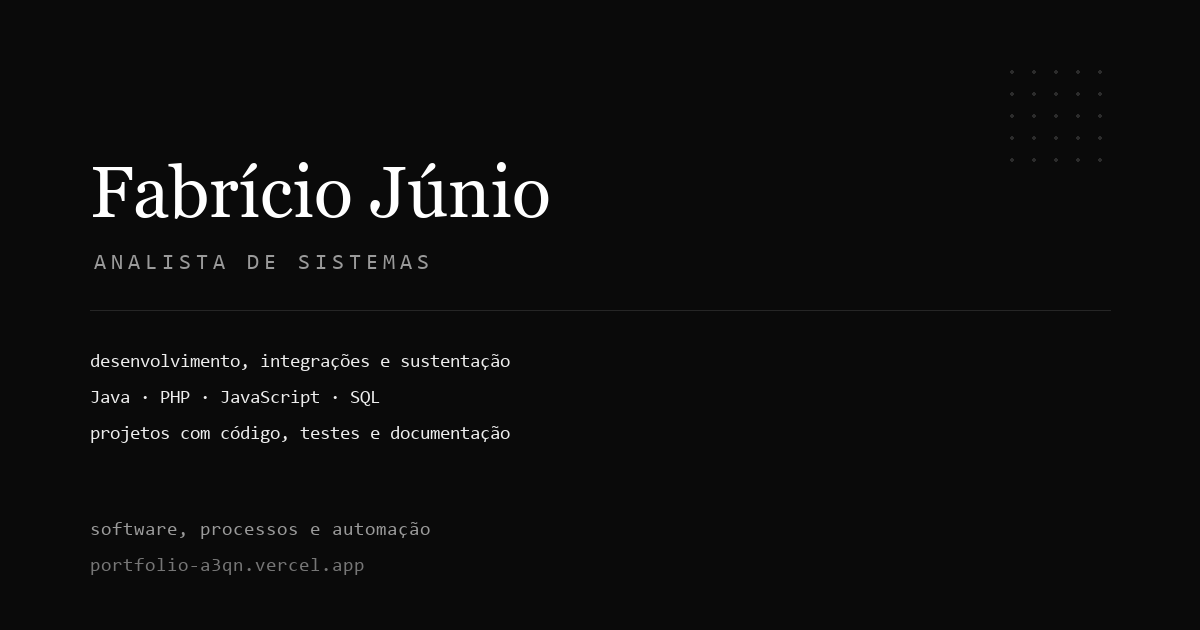
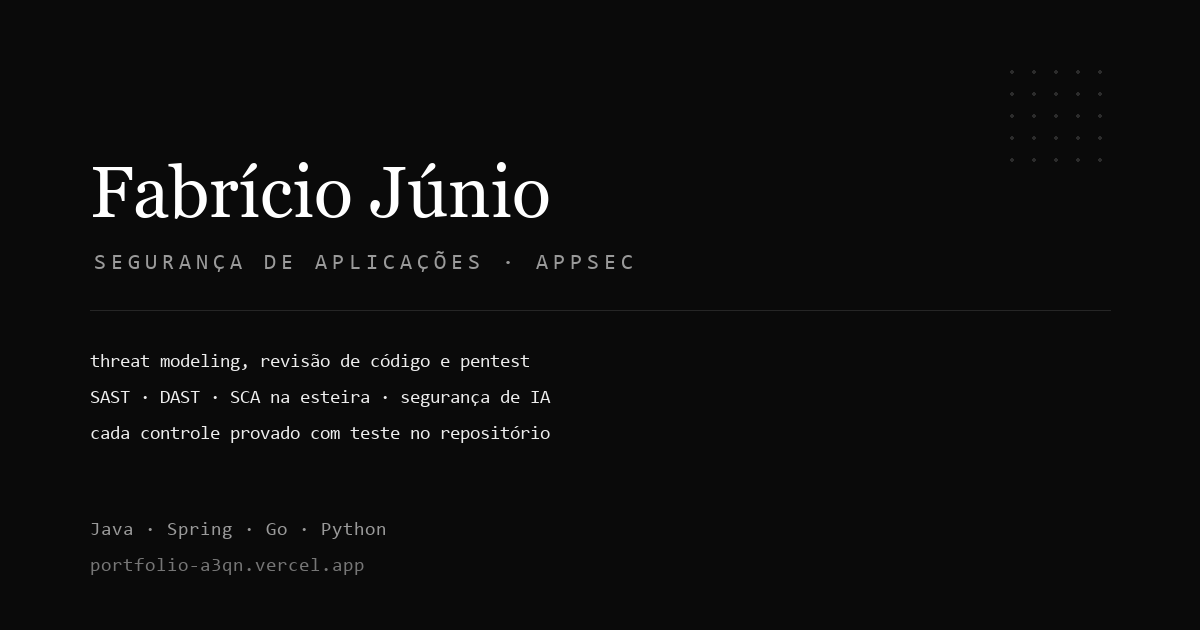
docs: atualiza README, metatags e cartão de compartilhamento para AppSec

diff --git a/e2e/portfolio.spec.ts b/e2e/portfolio.spec.ts
@@ -1,40 +1,47 @@
 import { expect, test } from "@playwright/test";
 
-test("destaques, roteiro e expansão dos acadêmicos", async ({ page }) => {
+test("segurança primeiro, destaques e expansão dos acadêmicos", async ({ page }) => {
   const errors: string[] = [];
   page.on("pageerror", e => errors.push(e.message));
   await page.goto("/");
-  await expect(page).toHaveTitle(/Analista de Sistemas/);
-  await expect(page.getByText("Analista de Sistemas", { exact: true }).first()).toBeVisible();
-  await expect(page.getByText("Disponível", { exact: true })).toBeVisible();
+  await expect(page).toHaveTitle(/Segurança de Aplicações/);
+  await expect(page.getByText("Segurança de Aplicações · AppSec", { exact: true }).first()).toBeVisible();
+  await expect(page.getByText("Aberto a vagas de AppSec", { exact: true })).toBeVisible();
   await page.screenshot({ path: test.info().outputPath("inicio.png"), animations: "disabled" });
   await expect(page.getByRole("link", { name: /LinkedIn in\/fabríciojúnio/ })).toHaveAttribute("href", "https://www.linkedin.com/in/fabr%C3%ADcioj%C3%BAnio/");
+  const seguranca = page.getByRole("heading", { level: 3, name: "Segurança de aplicações", exact: true });
+  const destaques = page.getByRole("heading", { level: 3, name: "Destaques", exact: true });
+  expect((await seguranca.boundingBox())!.y).toBeLessThan((await destaques.boundingBox())!.y);
+  const brecha = page.locator("#work-brecha");
+  await brecha.getByRole("button").first().click();
+  await expect(brecha.getByText("segurança aplicada")).toBeVisible();
+  await expect(brecha.getByRole("link", { name: /código no GitHub/ })).toHaveAttribute("href", "https://github.com/fabriciojunio/brecha");
   const vitrine = page.locator("#work-vitrine-bauru");
-  await vitrine.getByRole("button").click();
+  await vitrine.getByRole("button").first().click();
   await expect(vitrine.getByText(/Secretaria Municipal de Desenvolvimento Econômico, Turismo e Inovação/)).toBeVisible();
-  await expect(page.locator("#work-conectagente").getByRole("button")).toContainText("selecionado para a Saruê");
-  const first = page.locator("#work-almanaque");
-  await first.getByRole("button").click();
-  await expect(first.getByText(/A busca publicada usa o banco/)).toBeVisible();
-  await expect(first.getByRole("link", { name: /explorar código na IDE/ })).toHaveAttribute("href", "/lab?arquivo=%2Fprojetos%2Falmanaque.php");
-  await expect(page.locator("#work-cardiocam")).toBeVisible();
-  await page.locator("#work-cardiocam").getByRole("button").click();
-  await expect(page.locator("#work-cardiocam").getByText(/sinais sintéticos/)).toBeVisible();
-  await expect(page.locator("#work-cardiocam").getByRole("link", { name: /Abrir simulação/ })).toHaveAttribute("href", "/lab?arquivo=%2Fprojetos%2Fcardiocam.py&run=1");
-  const lastro = page.locator("#work-lastro");
-  await lastro.getByRole("button").click();
-  await expect(lastro.getByText(/permanecem privados até a defesa/)).toBeVisible();
-  await expect(lastro.getByRole("link", { name: /ler apresentação na IDE/ })).toHaveAttribute("href", "/lab?arquivo=%2Fprojetos%2Flastro.md");
-  await expect(lastro.getByRole("link", { name: /código no GitHub/ })).toHaveCount(0);
+  await expect(page.locator("#work-conectagente").getByRole("button").first()).toContainText("selecionado para a Saruê");
   await expect(page.locator("#work-permaneia")).toBeHidden();
   await page.getByRole("button", { name: /Outros projetos e trabalhos acadêmicos/ }).click();
   await expect(page.locator("#work-permaneia")).toBeVisible();
+  const almanaque = page.locator("#work-almanaque");
+  await almanaque.getByRole("button").first().click();
+  await expect(almanaque.getByRole("link", { name: /explorar código na IDE/ })).toHaveAttribute("href", "/lab?arquivo=%2Fprojetos%2Falmanaque.php");
+  const lastro = page.locator("#work-lastro");
+  await lastro.getByRole("button").first().click();
+  await expect(lastro.getByText(/permanecem privados até a defesa/)).toBeVisible();
+  await expect(lastro.getByRole("link", { name: /código no GitHub/ })).toHaveCount(0);
   await page.getByRole("button", { name: /Outros projetos e trabalhos acadêmicos/ }).click();
   await expect(page.locator("#work-permaneia")).toBeHidden();
   expect(await page.evaluate(() => document.documentElement.scrollWidth <= window.innerWidth)).toBe(true);
   expect(errors).toEqual([]);
   await page.locator("#trabalho").scrollIntoViewIfNeeded();
   await page.screenshot({ path: test.info().outputPath("projetos.png"), animations: "disabled" });
+});
+
+test("o crivo abre em Go na IDE com o trecho real", async ({ page }) => {
+  await page.goto("/lab?arquivo=%2Fprojetos%2Fcrivo.go");
+  await expect(page.getByRole("status", { name: "Inicializando IDE" })).toBeHidden();
+  await expect(page.getByText("crivo.go").first()).toBeVisible();
 });
 
 test("a IDE abre o projeto solicitado sem painel de execução indevido", async ({ page, isMobile }) => {
@@ -88,16 +95,16 @@ test("as rotas antigas não expõem estudos retirados", async ({ page }) => {
   await expect(page.getByText(/IFRS|LGD/)).toHaveCount(0);
 });
 
-test("a árvore da IDE prioriza os destaques e permite expandir os demais", async ({ page, isMobile }) => {
-  await page.goto("/lab?arquivo=%2Fprojetos%2Falmanaque.php");
+test("a árvore da IDE mostra segurança e destaques e permite expandir os demais", async ({ page, isMobile }) => {
+  await page.goto("/lab?arquivo=%2Fprojetos%2Fbrecha.java");
   await expect(page.locator(".monaco-editor")).toBeVisible();
   await expect(page.getByText("clique, enter ou esc para pular")).toBeHidden();
   if (isMobile) await page.getByRole("button", { name: "Arquivos", exact: true }).click();
   const tree = page.getByRole("navigation", { name: "Estrutura de arquivos" });
-  await expect(tree.getByRole("button", { name: "cardiocam.py", exact: true })).toBeVisible();
-  await expect(tree.getByRole("button", { name: "lastro.md", exact: true })).toBeVisible();
+  await expect(tree.getByRole("button", { name: "brecha.java", exact: true })).toBeVisible();
+  await expect(tree.getByRole("button", { name: "crivo.go", exact: true })).toBeVisible();
   await expect(tree.getByRole("button", { name: "permaneia.ts", exact: true })).toBeHidden();
-  await tree.getByText("Outros projetos (9)", { exact: true }).click();
+  await tree.getByText("Outros projetos (13)", { exact: true }).click();
   await tree.getByRole("button", { name: "permaneia.ts", exact: true }).click();
   await expect(page.getByText("PermaneIA", { exact: true })).toBeVisible();
   if (isMobile) await expect(tree).toBeHidden();

diff --git a/index.html b/index.html
@@ -8,24 +8,24 @@
     <meta name="viewport" content="width=device-width, initial-scale=1.0, viewport-fit=cover" />
     <meta name="theme-color" content="#0a0a0a" />
 
-    <title>Fabrício Júnio · Analista de Sistemas</title>
+    <title>Fabrício Júnio · Segurança de Aplicações (AppSec)</title>
     <meta
       name="description"
-      content="Analista de Sistemas em Bauru. Desenvolvimento, integrações e sustentação com Java, JavaScript e SQL. Projetos próprios em PHP, Symfony e Laravel."
+      content="Segurança de aplicações com base de desenvolvedor, em Bauru. Threat modeling, revisão de código, SAST, DAST e SCA na esteira, pentest com relatório e segurança de IA. Java, Spring e Go."
     />
     <meta
       name="keywords"
-      content="Fabrício Júnio, Analista de Sistemas, Java, PHP, JavaScript, SQL, Symfony, Laravel, API REST, MCP, Lecom BPM, RPA, MySQL, Bauru"
+      content="Fabrício Júnio, AppSec, Application Security, Product Security, DevSecOps, threat modeling, pentest, OWASP, SAST, DAST, SCA, Semgrep, CodeQL, OWASP ZAP, Burp Suite, Keycloak, Java, Spring Boot, Go, LGPD, Bauru"
     />
     <meta name="author" content="Fabrício Júnio" />
 
     <meta property="og:type" content="website" />
     <meta property="og:locale" content="pt_BR" />
     <meta property="og:site_name" content="Fabrício Júnio" />
-    <meta property="og:title" content="Fabrício Júnio · Analista de Sistemas" />
+    <meta property="og:title" content="Fabrício Júnio · Segurança de Aplicações (AppSec)" />
     <meta
       property="og:description"
-      content="Desenvolvimento, integrações e sustentação. Projetos em Java, PHP e TypeScript, com código, testes e demonstrações."
+      content="Threat modeling, revisão de código, SAST, DAST e SCA na esteira, pentest com relatório e segurança de IA, com evidência em cada repositório."
     />
     <meta property="og:url" content="https://portfolio-a3qn.vercel.app" />
     <!-- Sem og:image, colar o endereço no LinkedIn ou no WhatsApp gera um
@@ -36,14 +36,14 @@
     <meta property="og:image:height" content="630" />
     <meta
       property="og:image:alt"
-      content="Fabrício Júnio, Analista de Sistemas: Java, PHP, JavaScript e SQL"
+      content="Fabrício Júnio, Segurança de Aplicações: AppSec, DevSecOps e pentest"
     />
 
     <meta name="twitter:card" content="summary_large_image" />
-    <meta name="twitter:title" content="Fabrício Júnio · Analista de Sistemas" />
+    <meta name="twitter:title" content="Fabrício Júnio · Segurança de Aplicações (AppSec)" />
     <meta
       name="twitter:description"
-      content="Desenvolvimento, integrações e sustentação. Projetos em Java, PHP e TypeScript, com código, testes e demonstrações."
+      content="Threat modeling, revisão de código, SAST, DAST e SCA na esteira, pentest com relatório e segurança de IA, com evidência em cada repositório."
     />
     <meta name="twitter:image" content="https://portfolio-a3qn.vercel.app/og.png" />
 
@@ -66,22 +66,21 @@
         "addressCountry": "BR"
       },
       "knowsAbout": [
-  "Desenvolvimento de software",
-  "Integração de sistemas",
-  "Sustentação de software",
-  "Java",
-  "PHP",
-  "JavaScript",
-  "SQL",
-  "Symfony",
-  "Laravel",
-  "Lecom BPM",
-  "RPA",
-  "API REST",
-  "MCP",
-  "MySQL",
-  "Testes automatizados"
-]
+        "Application Security",
+        "Threat modeling",
+        "Secure code review",
+        "Penetration testing",
+        "DevSecOps",
+        "OWASP ASVS",
+        "OWASP Top 10",
+        "SAST, DAST e SCA",
+        "OAuth 2.0 e OpenID Connect",
+        "Segurança de IA",
+        "LGPD",
+        "Java",
+        "Spring Boot",
+        "Go"
+      ]
     }
     </script>
   </head>

diff --git a/scripts/gerar-cartao-og.py b/scripts/gerar-cartao-og.py
@@ -65,16 +65,16 @@ def gerar(caminho: Path) -> None:
             d.ellipse([x, y, x + 3, y + 3], fill=(44, 44, 44))
 
     d.text((esq, 150), "Fabrício Júnio", font=serif, fill=BRANCO)
-    escrever_espacado(d, (esq + 4, 252), "ANALISTA DE SISTEMAS", mono, FRACO, 5)
+    escrever_espacado(d, (esq + 4, 252), "SEGURANÇA DE APLICAÇÕES · APPSEC", mono, FRACO, 5)
 
     d.line([(esq, 310), (LARGURA - 90, 310)], fill=LINHA, width=1)
 
     # Tres linhas e nao oito: o cartao aparece pequeno na linha do tempo, e
     # quem le passa menos de um segundo nele.
     linhas = [
-        "desenvolvimento, integrações e sustentação",
-        "Java · PHP · JavaScript · SQL",
-        "projetos com código, testes e documentação",
+        "threat modeling, revisão de código e pentest",
+        "SAST · DAST · SCA na esteira · segurança de IA",
+        "cada controle provado com teste no repositório",
     ]
     y = 352
     for texto in linhas:
@@ -82,7 +82,7 @@ def gerar(caminho: Path) -> None:
         y += 36
 
     escrever_espacado(
-        d, (esq, 520), "software, processos e automação", mono_peq, FRACO, 1
+        d, (esq, 520), "Java · Spring · Go · Python", mono_peq, FRACO, 1
     )
     escrever_espacado(
         d, (esq, 556), "portfolio-a3qn.vercel.app", mono_peq, APAGADO, 1

diff --git a/README.md b/README.md
@@ -2,15 +2,15 @@
 
 *[Read this in English](README.en.md)*
 
-**Analista de Sistemas: desenvolvimento, integrações e sustentação de software.**
+**Segurança de aplicações (AppSec) com base de desenvolvedor.**
 
 [Portfólio publicado](https://portfolio-a3qn.vercel.app) · [IDE no navegador](https://portfolio-a3qn.vercel.app/lab)
 
 ## Conteúdo
 
-Almanaque, Vitrine Bauru e Feira do Comando aparecem primeiro, seguidos de KoraCRM, AuthCore e CodeReview AI. Pesquisa aplicada reúne ConectAgente, Cardiocam e Lastro, projeto pré-TCC com apresentação pública e código privado até a defesa. Os demais trabalhos acadêmicos e projetos complementares ficam em uma seção expansível.
+Os projetos de segurança vêm primeiro: AuthCore, Feira do Comando, brecha, alicerce, crivo e guarita. Depois os destaques: Vitrine Bauru (extensão com a SEDECON), ConectAgente (iniciação científica, Saruê), rastro (TCC) e AURORA (NASA Space Apps 2026). A IA aplicada fica em seguida, e os demais trabalhos acadêmicos e projetos complementares ficam numa seção expansível.
 
-Cada card informa o problema, a participação no desenvolvimento, tecnologias, roteiro de visualização e escopo da demonstração. Os dados dos cards e os arquivos da IDE compartilham a mesma fonte em `src/site/data.ts`.
+Cada card informa o problema, o que eu fiz, os resultados, a segurança aplicada, como conferir e o escopo da demonstração. Nos projetos de segurança, o trecho de código é real e aponta para a linha de origem no repositório. Os dados dos cards e os arquivos da IDE compartilham a mesma fonte em `src/site/data.ts`.
 
 As interfaces de demonstração e as simulações são identificadas como tal. A IDE apresenta trechos selecionados e simulações em JavaScript; não executa os serviços Java, PHP, Python ou Unity dos repositórios. O exemplo do Cardiocam usa sinais sintéticos e não representa uma medição clínica validada.
 

diff --git a/README.en.md b/README.en.md
@@ -2,15 +2,15 @@
 
 *[Leia em português](README.md)*
 
-**Systems Analyst: software development, integrations and support.**
+**Application security (AppSec) with a developer’s background.**
 
 [Published portfolio](https://portfolio-a3qn.vercel.app) · [In-browser IDE](https://portfolio-a3qn.vercel.app/lab)
 
 ## Content
 
-Almanaque, Vitrine Bauru and Feira do Comando come first, followed by KoraCRM, AuthCore and CodeReview AI. Applied research brings together ConectAgente, Cardiocam and Lastro, a pre-capstone project with a public presentation and private code until the defence. The other academic work and side projects sit in an expandable section.
+Security projects come first: AuthCore, Feira do Comando, brecha, alicerce, crivo and guarita. Then the highlights: Vitrine Bauru (outreach with the City of Bauru), ConectAgente (undergraduate research, Saruê), rastro (thesis) and AURORA (NASA Space Apps 2026). Applied AI comes next, and the remaining coursework and side projects sit in an expandable section.
 
-Each card states the problem, the part played in development, technologies, a viewing guide and the scope of the demo. The card data and the IDE files share the same source in `src/site/data.ts`.
+Each card states the problem, what I did, the results, the security applied, how to check it and the scope of the demo. In the security projects the snippet is real code and links to the source line in the repository. The card data and the IDE files share the same source in `src/site/data.ts`.
 
 Demo interfaces and simulations are labelled as such. The IDE shows selected excerpts and JavaScript simulations; it does not run the Java, PHP, Python or Unity services from the repositories. The Cardiocam example uses synthetic signals and is not a validated clinical measurement.
 
